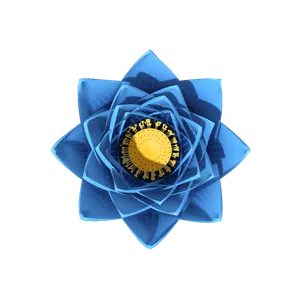
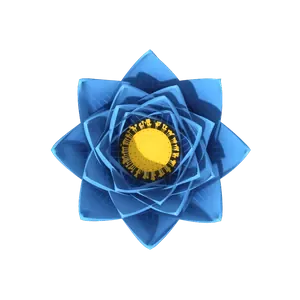
Lotus: flor centralizada na caixa, dourado mais vivo e luz branca atrás
Claude-Session: https://claude.ai/code/session_01XJ8bKLKDrAieMqW2LsfqC1

Changed region(s): [[0.39, 0.39, 0.6, 0.6]]

diff --git a/src/components/LotusFlower.js b/src/components/LotusFlower.js
@@ -1,10 +1,13 @@
 import React, { useEffect, useMemo, useRef, useState } from 'react';
 import { View, Image, StyleSheet, Animated, Easing, Pressable } from 'react-native';
-import FRAMES, { FAB } from './lotus/frames';
+import FRAMES, { FAB, LIGHT } from './lotus/frames';
 
 // Flor de lótus da Lotus em 3D (quadros em assets/lotus, gerados por tools/lotus3d).
 
 const SIZE = 206; // a flor é vista de frente (de cima), formando um círculo no centro da caixa
+const STAGE = 250; // faixa da caixa onde a flor fica, sempre centralizada
+const HALO = Math.round(SIZE * 1.6); // luz branca atrás da flor
+const RAYS = Math.round(SIZE * 1.95); // raios de luz que giram devagar
 
 // Cores da flor conforme o assunto da conversa.
 export const MOODS = {
@@ -156,27 +159,68 @@ export default function LotusFlower({ phase, level, onPress, visible = true, moo
   const sway = Animated.multiply(tilt, voice.interpolate({ inputRange: [0, 1], outputRange: [0.15, 1], extrapolate: 'clamp' }));
   const rotate = sway.interpolate({ inputRange: [-1, 1], outputRange: ['-7deg', '7deg'], extrapolate: 'clamp' });
   const lift = voice.interpolate({ inputRange: [0, 1], outputRange: [0, -5], extrapolate: 'clamp' });
+  // Luz branca atrás da flor: um halo que acende mais quando ela está ativa e pulsa com a voz,
+  // e raios finos girando bem devagar.
+  const spin = useRef(new Animated.Value(0)).current;
+  useEffect(() => {
+    if (!visible) return;
+    spin.setValue(0);
+    const loop = Animated.loop(Animated.timing(spin, { toValue: 1, duration: 60000, easing: Easing.linear, useNativeDriver: true }));
+    loop.start();
+    return () => loop.stop();
+  }, [visible]);
+  const raysRotate = spin.interpolate({ inputRange: [0, 1], outputRange: ['0deg', '360deg'] });
+  const haloOpacity = Animated.add(
+    breath.interpolate({ inputRange: [0, 1], outputRange: active ? [0.7, 0.85] : [0.5, 0.6] }),
+    voice.interpolate({ inputRange: [0, 1], outputRange: [0, 0.15], extrapolate: 'clamp' }),
+  );
+  const haloScale = Animated.add(
+    breath.interpolate({ inputRange: [0, 1], outputRange: [1, 1.04] }),
+    voice.interpolate({ inputRange: [0, 1.5], outputRange: [0, 0.12], extrapolate: 'clamp' }),
+  );
+  const raysOpacity = Animated.add(
+    breath.interpolate({ inputRange: [0, 1], outputRange: active ? [0.45, 0.6] : [0.28, 0.36] }),
+    voice.interpolate({ inputRange: [0, 1], outputRange: [0, 0.25], extrapolate: 'clamp' }),
+  );
   const pollen = useMemo(() => [-22, -10, 0, 9, 20, -15, 14].map((x, i) => ({ x, delay: i * 230 })), []);
 
   // Todos os quadros ficam empilhados e só o atual aparece: troca sem piscar.
   const all = [...set.bloom.map((src, i) => ['bloom', i, src]), ...set.idle.map((src, i) => ['idle', i, src])];
   return (
-    <Pressable onPress={onPress} accessibilityLabel="Falar com a Lotus" style={styles.wrap}>
-      <Animated.View style={[styles.flower, { transform: [{ translateY: lift }, { rotate }, { scale: flowerScale }] }]}>
-        {all.map(([k, i, src]) => (
-          <Image
-            key={mood + k + i}
-            source={src}
-            fadeDuration={0}
-            resizeMode="contain"
-            style={[StyleSheet.absoluteFill, { opacity: frame.kind === k && frame.i === i ? 1 : 0 }]}
-          />
+    <View style={styles.stage} pointerEvents="box-none">
+      <View style={styles.center} pointerEvents="box-none">
+        <Animated.Image
+          source={LIGHT.rays}
+          fadeDuration={0}
+          resizeMode="contain"
+          pointerEvents="none"
+          style={[styles.rays, { opacity: raysOpacity, transform: [{ rotate: raysRotate }, { scale: haloScale }] }]}
+        />
+        <Animated.Image
+          source={LIGHT.halo}
+          fadeDuration={0}
+          resizeMode="contain"
+          pointerEvents="none"
+          style={[styles.halo, { opacity: haloOpacity, transform: [{ scale: haloScale }] }]}
+        />
+        <Pressable onPress={onPress} accessibilityLabel="Falar com a Lotus" style={styles.wrap}>
+          <Animated.View style={[styles.flower, { transform: [{ translateY: lift }, { rotate }, { scale: flowerScale }] }]}>
+            {all.map(([k, i, src]) => (
+              <Image
+                key={mood + k + i}
+                source={src}
+                fadeDuration={0}
+                resizeMode="contain"
+                style={[StyleSheet.absoluteFill, { opacity: frame.kind === k && frame.i === i ? 1 : 0 }]}
+              />
+            ))}
+          </Animated.View>
+        </Pressable>
+        {pollen.map((p, i) => (
+          <Pollen key={i} x={p.x} delay={p.delay} active={speaking} />
         ))}
-      </Animated.View>
-      {pollen.map((p, i) => (
-        <Pollen key={i} x={p.x} delay={p.delay} active={speaking} />
-      ))}
-    </Pressable>
+      </View>
+    </View>
   );
 }
 
@@ -259,7 +303,12 @@ const styles = StyleSheet.create({
   micWrap: { width: 52, height: 52, alignItems: 'center', justifyContent: 'center' },
   micGlow: { position: 'absolute', width: 52, height: 52, borderRadius: 26, backgroundColor: 'rgba(47,134,255,0.35)' },
   micFlower: { position: 'absolute', width: 50, height: 50 },
-  wrap: { alignSelf: 'center', width: SIZE, height: SIZE, marginTop: 2, alignItems: 'center', justifyContent: 'center' },
+  // Faixa da largura inteira da caixa; a flor fica no meio exato, na horizontal e na vertical.
+  stage: { alignSelf: 'stretch', height: STAGE, alignItems: 'center', justifyContent: 'center' },
+  center: { width: SIZE, height: SIZE, alignItems: 'center', justifyContent: 'center' },
+  halo: { position: 'absolute', width: HALO, height: HALO, left: (SIZE - HALO) / 2, top: (SIZE - HALO) / 2 },
+  rays: { position: 'absolute', width: RAYS, height: RAYS, left: (SIZE - RAYS) / 2, top: (SIZE - RAYS) / 2 },
+  wrap: { width: SIZE, height: SIZE },
   flower: { position: 'absolute', left: 0, top: 0, width: SIZE, height: SIZE },
   pollen: { position: 'absolute', top: SIZE / 2 - 2, width: 4, height: 4, borderRadius: 2, backgroundColor: '#FDE68A' },
 });

diff --git a/src/components/lotus/frames.js b/src/components/lotus/frames.js
@@ -83,3 +83,4 @@ const F = {
 };
 export default F;
 export const FAB = [require('../../../assets/lotus/fab_0.webp'), require('../../../assets/lotus/fab_1.webp')];
+export const LIGHT = { halo: require('../../../assets/lotus/light_halo.webp'), rays: require('../../../assets/lotus/light_rays.webp') };

diff --git a/tools/lotus3d/vivid.py b/tools/lotus3d/vivid.py
@@ -1,0 +1,65 @@
+# Aviva o dourado do miolo da flor (padrão e botão flutuante): mais saturado, mais claro e com
+# um brilho quente em volta. Também gera a luz branca que fica atrás da flor na caixa da Lotus.
+# Uso: python3 vivid.py  (aplica nos quadros já gerados em assets/lotus; rode só uma vez por
+# render, senão o dourado acumula)
+# O render.py chama vivid_gold() sozinho em cada quadro novo.
+import glob, os
+import numpy as np
+from PIL import Image, ImageFilter
+
+HERE = os.path.dirname(os.path.abspath(__file__))
+OUT = os.path.join(HERE, '..', '..', 'assets', 'lotus')
+
+
+def vivid_gold(im):
+    im = im.convert('RGBA')
+    a = np.asarray(im).astype(np.float32) / 255
+    rgb, al = a[..., :3], a[..., 3]
+    hsv = np.asarray(im.convert('RGB').convert('HSV')).astype(np.float32) / 255
+    h, s, v = hsv[..., 0] * 360, hsv[..., 1], hsv[..., 2]
+    # máscara do dourado: matiz amarelo/laranja, com cor e luz suficientes
+    m = np.clip((s - 0.25) / 0.2, 0, 1) * np.clip((v - 0.2) / 0.2, 0, 1) * (al > 0.5)
+    m *= np.clip(1 - np.abs(h - 44) / 22, 0, 1) ** 0.5
+    m = np.asarray(Image.fromarray((m * 255).astype(np.uint8)).filter(ImageFilter.GaussianBlur(0.8))).astype(np.float32) / 255
+    # dourado vivo: puxa para um ouro quente e luminoso, preservando o relevo (luz e sombra)
+    gold = np.array([1.0, 0.74, 0.10])
+    val = rgb.max(-1, keepdims=True)
+    lit = np.clip(gold * np.clip(val * 1.22, 0, 1) ** 1.15 + 0.10 * np.clip(val - 0.85, 0, 1) / 0.15, 0, 1)
+    out = rgb * (1 - m[..., None]) + lit * m[..., None]
+    res = Image.fromarray((np.dstack([out, al]) * 255).astype(np.uint8), 'RGBA')
+    # brilho quente em volta do miolo
+    glow = Image.fromarray((m * 255).astype(np.uint8)).filter(ImageFilter.GaussianBlur(im.width * 0.025))
+    g = np.asarray(glow).astype(np.float32) / 255 * 0.4
+    r = np.asarray(res).astype(np.float32) / 255
+    r[..., :3] = r[..., :3] + (1 - r[..., :3]) * g[..., None] * np.array([1.0, 0.78, 0.25])
+    return Image.fromarray((np.clip(r, 0, 1) * 255).astype(np.uint8), 'RGBA')
+
+
+def halo(path, size=600):
+    # luz branca suave atrás da flor (um "sol" difuso)
+    y, x = np.mgrid[0:size, 0:size] / (size - 1) * 2 - 1
+    d = np.hypot(x, y)
+    a = np.clip(np.exp(-(d / 0.42) ** 2) * 0.95 + np.exp(-(d / 0.75) ** 2) * 0.35, 0, 1) * np.clip((1 - d) / 0.15, 0, 1)
+    img = np.dstack([np.ones_like(a), np.ones_like(a), np.ones_like(a), a])
+    Image.fromarray((img * 255).astype(np.uint8), 'RGBA').save(path, 'WEBP', quality=85, method=6)
+
+
+def rays(path, size=600, n=16):
+    # raios de luz branca, finos e suaves, que giram devagar atrás da flor
+    y, x = np.mgrid[0:size, 0:size] / (size - 1) * 2 - 1
+    d, th = np.hypot(x, y), np.arctan2(y, x)
+    beam = np.clip(np.cos(th * n), 0, 1) ** 6 * 0.8 + np.clip(np.cos(th * n / 2 + 0.7), 0, 1) ** 10 * 0.5
+    fall = np.clip(d / 0.25, 0, 1) * np.clip((1 - d) / 0.55, 0, 1)
+    a = np.clip(beam * fall, 0, 1) * 0.7
+    img = np.dstack([np.ones_like(a), np.ones_like(a), np.ones_like(a), a])
+    im = Image.fromarray((img * 255).astype(np.uint8), 'RGBA').filter(ImageFilter.GaussianBlur(2))
+    im.save(path, 'WEBP', quality=85, method=6)
+
+
+if __name__ == '__main__':
+    for f in sorted(glob.glob(os.path.join(OUT, 'padrao_*.webp')) + glob.glob(os.path.join(OUT, 'fab_*.webp'))):
+        vivid_gold(Image.open(f)).save(f, 'WEBP', quality=82, method=6)
+        print(os.path.basename(f))
+    halo(os.path.join(OUT, 'light_halo.webp'))
+    rays(os.path.join(OUT, 'light_rays.webp'))
+    print('light_halo.webp light_rays.webp')

diff --git a/tools/lotus3d/render.py b/tools/lotus3d/render.py
@@ -3,6 +3,7 @@
 import base64, io, json, os
 from PIL import Image
 from playwright.sync_api import sync_playwright
+from vivid import vivid_gold, halo, rays
 HERE = os.path.dirname(os.path.abspath(__file__))
 OUT = os.path.join(HERE, '..', '..', 'assets', 'lotus')
 jobs = json.load(open(os.path.join(HERE, 'jobs.json')))
@@ -14,9 +15,13 @@ with sync_playwright() as p:
         name = os.path.basename(j['f']).replace('.png', '.webp')
         # recorte quadrado fixo e centrado: a flor fica sempre no meio
         im = im.crop((64, 64, 960, 960)).resize((300, 300), Image.LANCZOS)
+        # dourado do miolo mais vivo (flor padrão e botão flutuante)
+        if name.startswith(('padrao_', 'fab_')):
+            im = vivid_gold(im)
         im.save(os.path.join(OUT, name), 'WEBP', quality=78, method=6)
         print(name)
     b.close()
+halo(os.path.join(OUT, 'light_halo.webp')); rays(os.path.join(OUT, 'light_rays.webp'))
 
 # Reescreve src/components/lotus/frames.js com os quadros gerados.
 names = sorted(os.path.basename(j['f']).replace('.png', '.webp') for j in jobs)
@@ -28,5 +33,6 @@ for m in ['padrao', 'agro', 'sos', 'shop']:
         js += [f"      require('../../../assets/lotus/{n}')," for n in names if n.startswith(f'{m}_{k}_')]
         js.append('    ],')
     js.append('  },')
-js += ['};', 'export default F;', "export const FAB = [require('../../../assets/lotus/fab_0.webp'), require('../../../assets/lotus/fab_1.webp')];", '']
+js += ['};', 'export default F;', "export const FAB = [require('../../../assets/lotus/fab_0.webp'), require('../../../assets/lotus/fab_1.webp')];",
+       "export const LIGHT = { halo: require('../../../assets/lotus/light_halo.webp'), rays: require('../../../assets/lotus/light_rays.webp') };", '']
 open(os.path.join(HERE, '..', '..', 'src', 'components', 'lotus', 'frames.js'), 'w').write('\n'.join(js))
